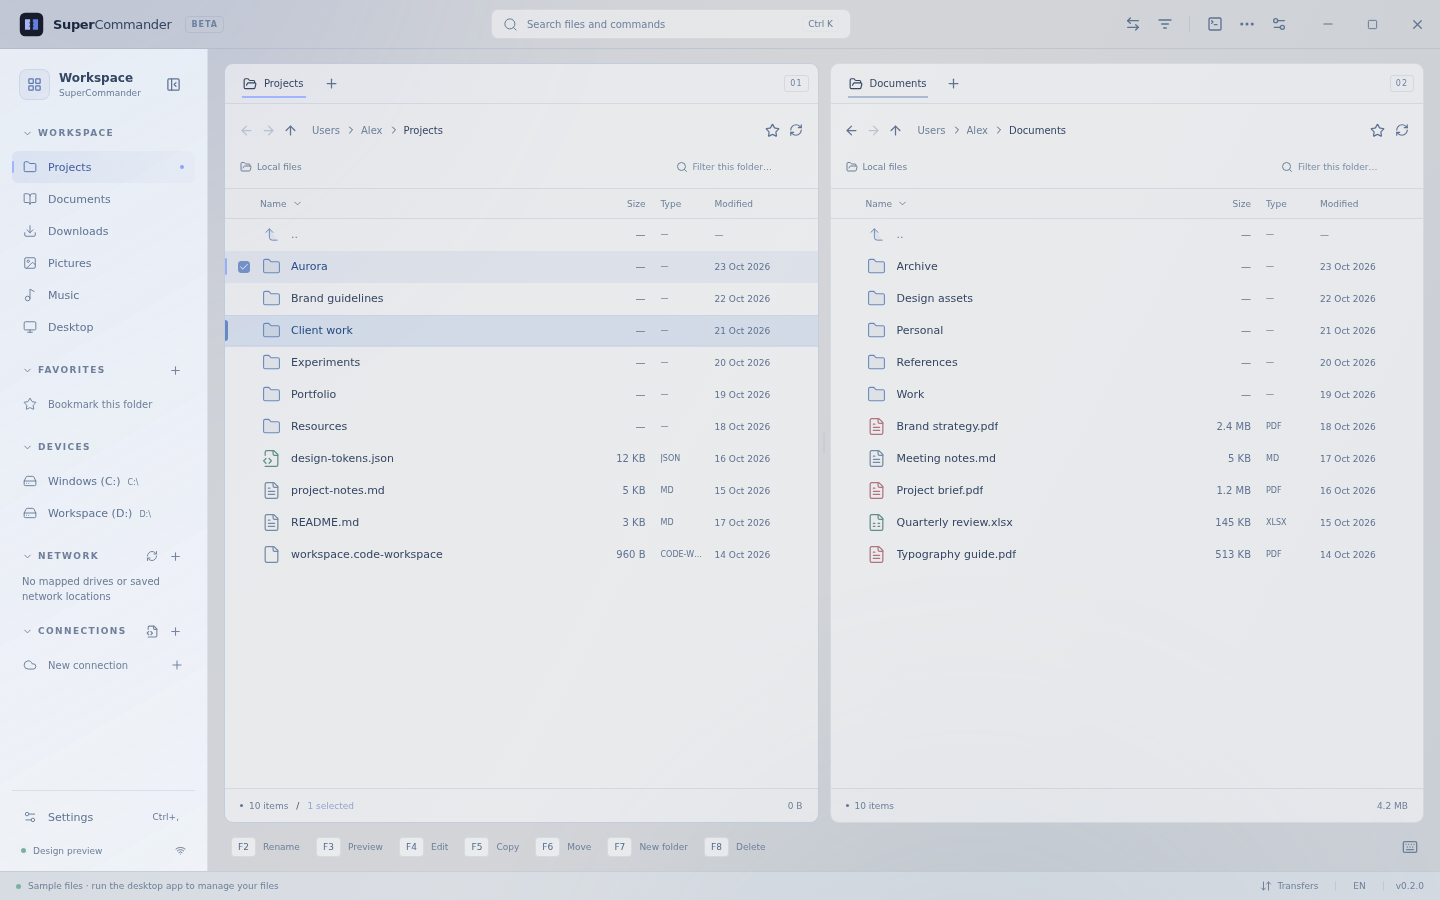
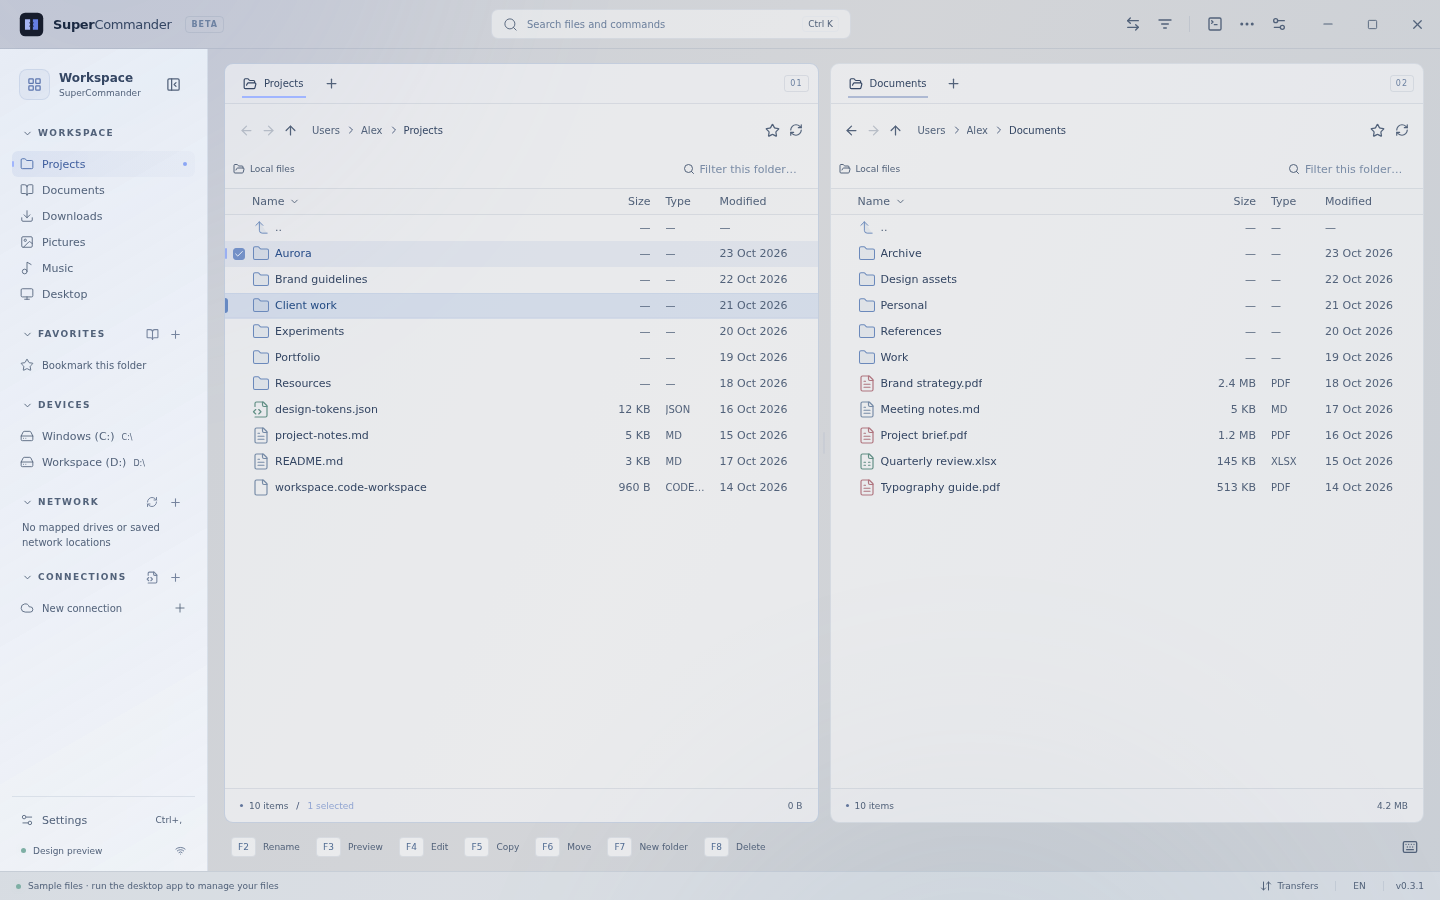
Prepare 0.3.1 release with compact high-contrast screenshots

diff --git a/README.md b/README.md
@@ -6,13 +6,13 @@ Browse local drives, UNC paths, ZIP archives and SSH/SFTP servers. Work with fam
 
 ## Download
 
-The latest release is **[SuperCommander 0.3.0](https://github.com/rihokirss/SuperCommander/releases/tag/v0.3.0)**.
+The latest release is **[SuperCommander 0.3.1](https://github.com/rihokirss/SuperCommander/releases/tag/v0.3.1)**.
 
-This release adds keyboard-accessible menus, bookmark management, file properties, native file clipboard support, quick editing, content search, reviewed folder synchronization, recovery of saved copies and safer ZIP operations.
+Version 0.3.1 adds Alt+S quick filtering, denser file and Workspace rows, reduced padding and clearer text contrast in both themes. It includes keyboard-accessible menus, bookmarks, file properties, native file clipboard support, quick editing, content search, reviewed folder synchronization, recovery of saved copies and safe ZIP operations.
 
-- [Windows x64 installer](https://github.com/rihokirss/SuperCommander/releases/download/v0.3.0/SuperCommander_0.3.0_x64-setup.exe) — recommended.
-- [Standalone Windows x64 executable](https://github.com/rihokirss/SuperCommander/releases/download/v0.3.0/SuperCommander_0.3.0_x64.exe) — requires WebView2.
-- [SHA-256 checksums](https://github.com/rihokirss/SuperCommander/releases/download/v0.3.0/SHA256SUMS.txt).
+- [Windows x64 installer](https://github.com/rihokirss/SuperCommander/releases/download/v0.3.1/SuperCommander_0.3.1_x64-setup.exe) — recommended.
+- [Standalone Windows x64 executable](https://github.com/rihokirss/SuperCommander/releases/download/v0.3.1/SuperCommander_0.3.1_x64.exe) — requires WebView2.
+- [SHA-256 checksums](https://github.com/rihokirss/SuperCommander/releases/download/v0.3.1/SHA256SUMS.txt).
 
 ## Screenshots
 
@@ -67,7 +67,7 @@ npm run build:windows
 `cargo-xwin` downloads the Windows SDK and CRT. Outputs:
 
 - `target/x86_64-pc-windows-msvc/release/supercommander.exe`
-- `target/x86_64-pc-windows-msvc/release/bundle/nsis/SuperCommander_0.3.0_x64-setup.exe`
+- `target/x86_64-pc-windows-msvc/release/bundle/nsis/SuperCommander_0.3.1_x64-setup.exe`
 
 A successful cross-build does not replace testing the application on Windows.
 

diff --git a/docs/releases/v0.3.1.md b/docs/releases/v0.3.1.md
@@ -1,0 +1,21 @@
+SuperCommander 0.3.1 makes the dual-pane Windows file manager denser and easier to read.
+
+### Changes
+
+- **Alt+S** focuses the active pane's filename filter. Type to narrow the list, press **Enter** to focus the first match, or **Esc** to clear the filter and return to the file list. **Ctrl+Shift+F** remains available; shortcut help and tooltips show both.
+- Compact file and Workspace rows are now **26 px** high instead of 32 px. Comfortable rows use **34 px** instead of 40 px.
+- Reduced horizontal padding and icon spacing leave more room for filenames.
+- Higher text contrast in dark and light themes, with clearer sizes, dates, file types, column headings and navigation labels.
+
+### Downloads
+
+- **SuperCommander_0.3.1_x64-setup.exe** — recommended per-user Windows x64 installer; downloads WebView2 if needed.
+- **SuperCommander_0.3.1_x64.exe** — standalone executable; requires WebView2.
+- **SHA256SUMS.txt** — download checksums.
+- **BUILDINFO.json** — source commit, Windows CI build and executable hashes.
+
+### Validation and limitations
+
+The UI changes passed 51 browser tests and 26 JavaScript unit tests, and were tested in an isolated native Windows app for Alt+S in both panes, Enter/Esc, virtualized row heights and both themes. The release workflow also builds the Windows executable and installer and tests the Rust core, native clipboard, properties, search, transfers, queues, comparison, tooltips, recovery, rename and ZIP operations.
+
+Builds are unsigned and automatic application updates are not implemented. The existing limitations are described in the [README](https://github.com/rihokirss/SuperCommander/tree/v0.3.1#readme). The dependency audit reports no known npm vulnerabilities and one unpatched upstream [RSA advisory](https://rustsec.org/advisories/RUSTSEC-2023-0071.html); see the [dependency review](https://github.com/rihokirss/SuperCommander/blob/v0.3.1/docs/dependencies.md).
